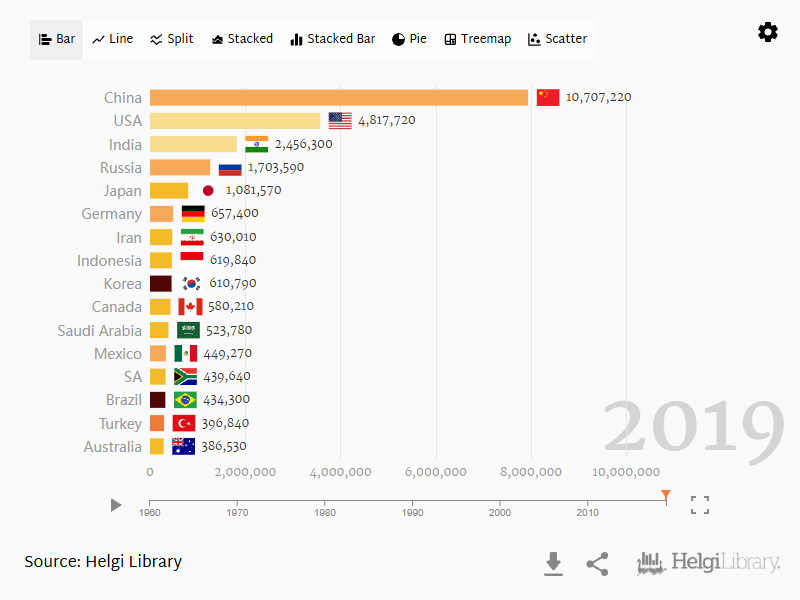
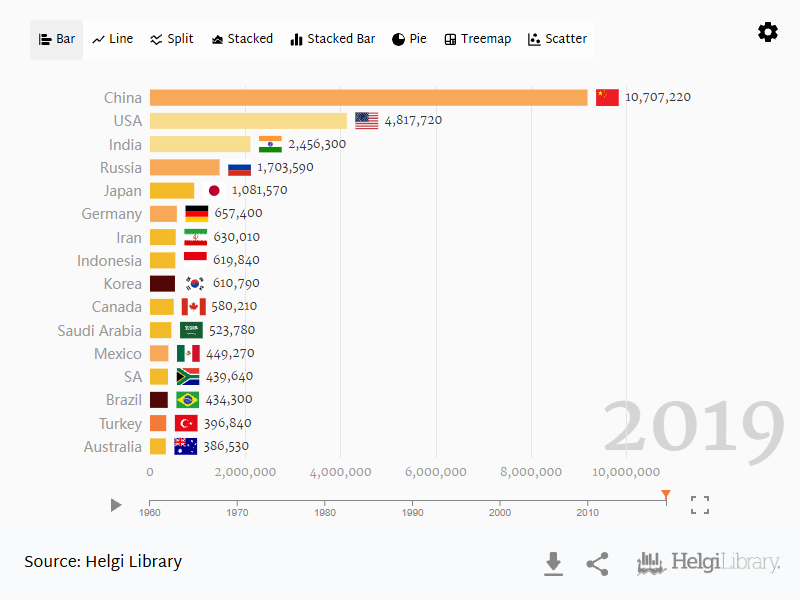
quality increase 2x test

Changed region(s): [[0.1875, 0.18, 0.5625, 0.75], [0.6562, 0.15, 0.875, 0.18]]

diff --git a/src/server.js b/src/server.js
@@ -16,16 +16,17 @@ app.use(express.json());
 async function captureScreenshot(url, delay = 0, width = 1080, height = 1080) {
     const browser = await puppeteer.launch({
         headless: 'new',
-        args: ['--no-sandbox', '--disable-setuid-sandbox']
+        args: ['--no-sandbox', '--disable-setuid-sandbox', '--force-device-scale-factor']
     });
     
     try {
         const page = await browser.newPage();
         
-        // Set viewport size
+        // Set viewport size with 2x device scale factor for zoom
         await page.setViewport({
             width: parseInt(width),
-            height: parseInt(height)
+            height: parseInt(height),
+            deviceScaleFactor: 4
         });
         
         // Add recording parameter to URL safely
